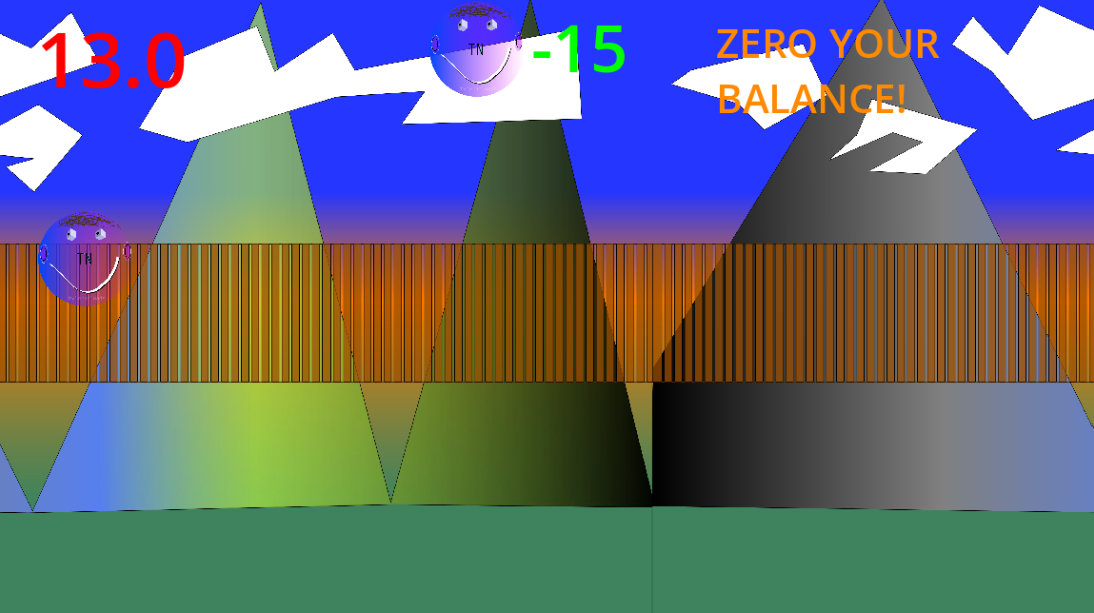
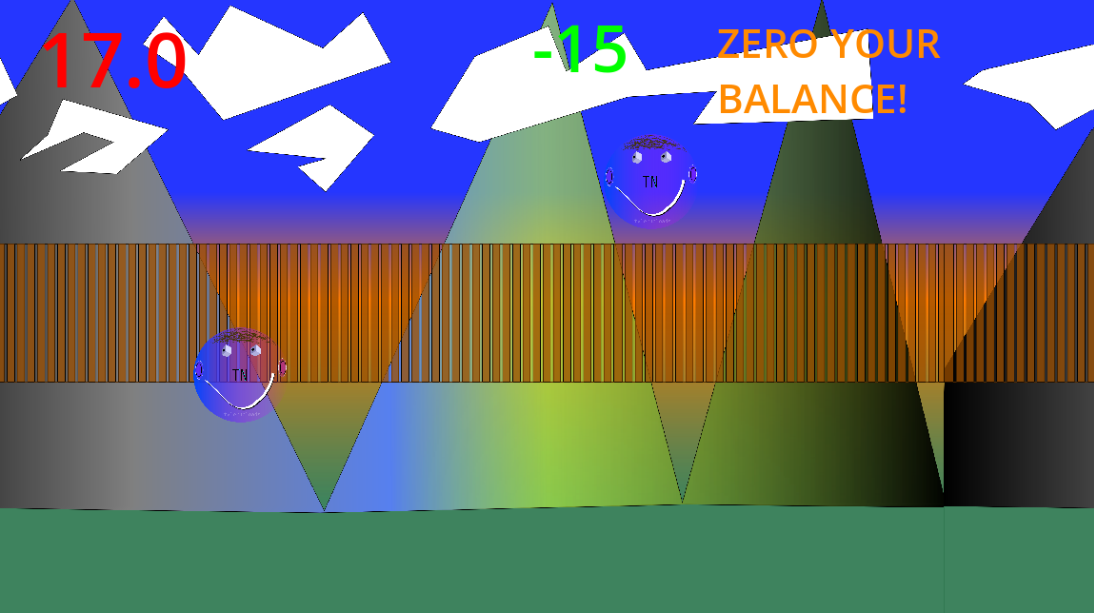
Update README to reflect new 17 seconds time for minigame 3, 'Hit the Circles'

diff --git a/README.md b/README.md
@@ -37,7 +37,7 @@ In minigame 2, "Orb Collection Clicker," you have 12 seconds to click 18 tylerup
 
 ### Minigame 3: Hit the Circles
 
-In minigame 3, you have 13 seconds to zero your balance of circles by clicking on any circle whenever you see it pop up!
+In minigame 3, you have 17 seconds to zero your balance of circles by clicking on any circle whenever you see it pop up!
 
 ![Hero image for the third minigame, hit the circles](./media/docs/minigame-3-hero.png)
 
